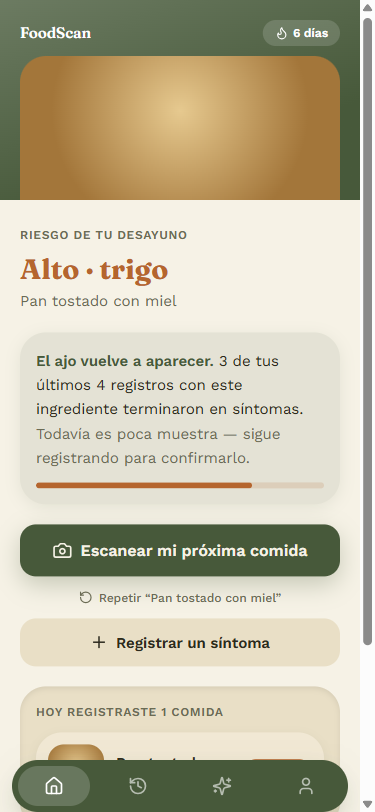
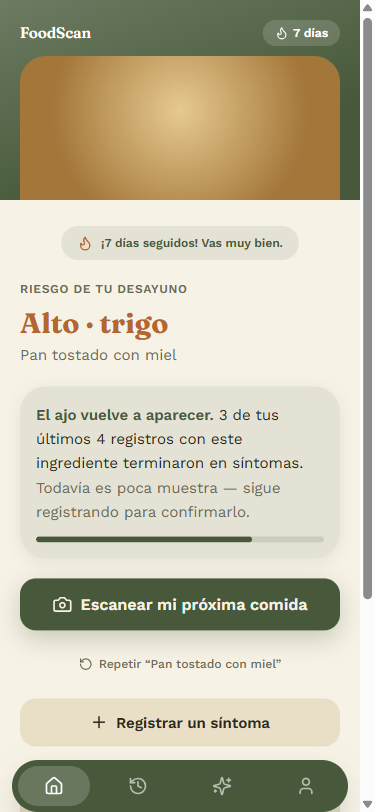
Corregir 4 defectos de la 4ta revision de Hoy
Eliminar un registro ahora exige confirmacion en 2 pasos (Cancelar / Si,
eliminar) en vez de borrar al instante. El link "Repetir" tiene un area
tactil real de 44px. Se agrega una celebracion genuina de hito (racha
multiplo de 7, spring de entrada, respeta reduced-motion) y se ajusta la
racha semilla a 7 dias para que sea verificable en pantalla, no solo
teorica en el codigo. La barra de confianza del insight paso de terracota
(--alerta, reservado a riesgo confirmado) a verde (--accent), coherente
con como Tu Patron trata el mismo tipo de dato.

Relanzada la 5ta revision del revisor-visual para Hoy.

diff --git a/components/app/sheet-detalle-comida.tsx b/components/app/sheet-detalle-comida.tsx
@@ -1,3 +1,6 @@
+'use client';
+
+import { useEffect, useState } from 'react';
 import { Trash2 } from 'lucide-react';
 import { BottomSheet } from './bottom-sheet';
 import { FotoComida } from './foto-comida';
@@ -14,6 +17,12 @@ export function SheetDetalleComida({
   /** Se llama tras eliminar, para que la pantalla recargue sus datos. */
   onEliminar?: () => void;
 }) {
+  const [confirmando, setConfirmando] = useState(false);
+
+  useEffect(() => {
+    if (!comida) setConfirmando(false);
+  }, [comida]);
+
   return (
     <BottomSheet abierto={comida !== null} onCerrar={onCerrar} titulo={comida?.descripcion ?? ''}>
       {comida && (
@@ -43,19 +52,37 @@ export function SheetDetalleComida({
               })}
             </div>
           </div>
-          {onEliminar && (
-            <button
-              type="button"
-              onClick={() => {
-                eliminarComida(comida.id);
-                onCerrar();
-                onEliminar();
-              }}
-              className="flex h-11 w-full items-center justify-center gap-2 rounded-[var(--radius-button)] bg-[var(--surface-2)] text-[15px] font-semibold text-[var(--error)] focus-visible:outline-none focus-visible:ring-2 focus-visible:ring-[var(--accent)]"
-            >
-              <Trash2 size={16} aria-hidden="true" /> Eliminar este registro
-            </button>
-          )}
+          {onEliminar &&
+            (confirmando ? (
+              <div className="flex gap-2">
+                <button
+                  type="button"
+                  onClick={() => setConfirmando(false)}
+                  className="flex h-11 flex-1 items-center justify-center rounded-[var(--radius-button)] bg-[var(--surface-2)] text-[15px] font-semibold text-[var(--text-primary)] focus-visible:outline-none focus-visible:ring-2 focus-visible:ring-[var(--accent)]"
+                >
+                  Cancelar
+                </button>
+                <button
+                  type="button"
+                  onClick={() => {
+                    eliminarComida(comida.id);
+                    onCerrar();
+                    onEliminar();
+                  }}
+                  className="flex h-11 flex-1 items-center justify-center gap-2 rounded-[var(--radius-button)] bg-[var(--error)] text-[15px] font-semibold text-white focus-visible:outline-none focus-visible:ring-2 focus-visible:ring-[var(--accent)]"
+                >
+                  <Trash2 size={16} aria-hidden="true" /> Sí, eliminar
+                </button>
+              </div>
+            ) : (
+              <button
+                type="button"
+                onClick={() => setConfirmando(true)}
+                className="flex h-11 w-full items-center justify-center gap-2 rounded-[var(--radius-button)] bg-[var(--surface-2)] text-[15px] font-semibold text-[var(--error)] focus-visible:outline-none focus-visible:ring-2 focus-visible:ring-[var(--accent)]"
+              >
+                <Trash2 size={16} aria-hidden="true" /> Eliminar este registro
+              </button>
+            ))}
         </div>
       )}
     </BottomSheet>

diff --git a/app/(app)/hoy/page.tsx b/app/(app)/hoy/page.tsx
@@ -114,6 +114,18 @@ export default function HoyPage() {
       <MordiscoAncho />
 
       <div className="flex flex-1 flex-col gap-5 px-5 pb-28 pt-1">
+        {perfil.rachaActual > 0 && perfil.rachaActual % 7 === 0 && (
+          <motion.div
+            initial={{ opacity: 0, scale: reduce ? 1 : 0.85 }}
+            animate={{ opacity: 1, scale: 1 }}
+            transition={reduce ? { duration: 0 } : { type: 'spring', stiffness: 300, damping: 20 }}
+            className="flex items-center justify-center gap-2 self-center rounded-full bg-[var(--chip-bg)] px-4 py-2"
+          >
+            <Flame size={16} className="text-[var(--alerta)]" aria-hidden="true" />
+            <span className="text-[12px] font-semibold text-[var(--accent)]">¡{perfil.rachaActual} días seguidos! Vas muy bien.</span>
+          </motion.div>
+        )}
+
         <motion.div initial={{ opacity: 0, y: reduce ? 0 : 10 }} animate={{ opacity: 1, y: 0 }} transition={{ duration: 0.3 }}>
           <p className="text-[12px] font-semibold uppercase tracking-[0.06em] text-[var(--text-tertiary)]">Riesgo de tu {ultima.nombreComida.toLowerCase()}</p>
           <h2 className="mt-1 text-[28px] font-bold [font-family:var(--font-display)]" style={{ color: colorResultado }}>
@@ -135,9 +147,9 @@ export default function HoyPage() {
               {correlacion.vecesConSintoma} de tus últimos {correlacion.vecesComido} registros con este ingrediente terminaron en síntomas.{' '}
               <span className="text-[var(--text-secondary)]">Todavía es poca muestra — sigue registrando para confirmarlo.</span>
             </p>
-            <div className="mt-3 h-1.5 w-full overflow-hidden rounded-full bg-[color-mix(in_oklab,var(--alerta)_16%,transparent)]">
+            <div className="mt-3 h-1.5 w-full overflow-hidden rounded-full bg-[color-mix(in_oklab,var(--accent)_16%,transparent)]">
               <motion.div
-                className="h-full rounded-full bg-[var(--alerta)]"
+                className="h-full rounded-full bg-[var(--accent)]"
                 initial={{ width: 0 }}
                 animate={{ width: `${Math.round((correlacion.vecesConSintoma / correlacion.vecesComido) * 100)}%` }}
                 transition={{ duration: reduce ? 0 : 0.8, delay: reduce ? 0 : 0.2, ease: [0.16, 1, 0.3, 1] }}
@@ -163,7 +175,7 @@ export default function HoyPage() {
               setAviso(`Agregado: ${ultima.descripcion}`);
               setTimeout(() => setAviso(null), 2200);
             }}
-            className="flex items-center justify-center gap-1.5 self-center text-[12px] font-medium text-[var(--text-secondary)] focus-visible:outline-none focus-visible:ring-2 focus-visible:ring-[var(--accent)]"
+            className="flex min-h-11 items-center justify-center gap-1.5 self-center px-3 text-[12px] font-medium text-[var(--text-secondary)] focus-visible:outline-none focus-visible:ring-2 focus-visible:ring-[var(--accent)]"
           >
             <RotateCcw size={14} aria-hidden="true" /> Repetir &ldquo;{ultima.descripcion}&rdquo;
           </button>

diff --git a/lib/foodscan-data.ts b/lib/foodscan-data.ts
@@ -107,7 +107,7 @@ function crearSemilla(ahora: number) {
     { id: 's3', tipo: 'urgencia', intensidad: 2, registradoEn: new Date(ahora - 1 * dia + 10 * hora).toISOString() },
   ];
 
-  const perfil: Perfil = { diasMeta: 5, rachaActual: 6, rachaMaxima: 6, congeladoresDisponibles: 0 };
+  const perfil: Perfil = { diasMeta: 5, rachaActual: 7, rachaMaxima: 7, congeladoresDisponibles: 1 };
 
   return { comidas, sintomas, perfil };
 }

diff --git a/docs/revisiones/hoy-veredicto.md b/docs/revisiones/hoy-veredicto.md
@@ -1,64 +1,76 @@
 # VEREDICTO revisor-visual — Hoy (M0, app interna FoodScan)
 Fecha: 2026-09-26 00:00
 Screenshot: docs/revisiones/hoy-375.png
-Usabilidad: 30/40
+Usabilidad: 31/40
 Craft: 15/20
 Copy (si vende): N-A
 Fidelidad (si hubo referencia): FIEL
 Veredicto: NO LISTA
 
-Detalle usabilidad: h1:3 h2:4 h3:2 h4:2 h5:3 h6:4 h7:3 h8:3 h9:3 h10:3
+Detalle usabilidad: h1:3 h2:4 h3:2 h4:4 h5:2 h6:4 h7:3 h8:3 h9:3 h10:3
 Detalle craft: jerarquía:3 profundidad:3 identidad:3 movimiento:3 encaje:3
 
-## Verificación de los 5 defectos de la 2da pasada
+## Verificación de los 5 defectos de la 3ra pasada
 
-1. Filas tappable sin acción → RESUELTO en esta pantalla. `FilaComida` ahora acepta `onClick`;
-   en `hoy/page.tsx` se pasa `onClick={setDetalle}` y abre `SheetDetalleComida` (foto, badge,
-   ingredientes con los de riesgo resaltados en terracota). Verificado en código y en el sheet
-   (`bottom-sheet.tsx` con cierre por X, backdrop y swipe). PERO genera un defecto NUEVO de
-   consistencia — ver Top Defectos #1: la misma fila se ve IDÉNTICA en Historial y Tu Patrón
-   pero ahí NO tiene `onClick` (grep confirma `<FilaComida comida={c} />` sin handler en
-   `historial/page.tsx:96` y `patron/page.tsx:111`), así que no responde al tap.
-2. Empty state "Nada registrado todavía hoy" + CTA "Escanear tu primera comida del día" →
-   RESUELTO, visible en código dentro del contenedor `surface-2`, condicionado a
-   `comidasHoy.length === 0`.
-3. Tercer nivel hundido → RESUELTO en código: el contenedor "Hoy registraste" usa
-   `bg-[var(--surface-2)]` (`#e9dfc6`), distinto de `--chip-bg` (accent 10% sobre `#f6f2e6`)
-   de la card de insight y de `--bg` (`#f6f2e6`) del fondo general. En el screenshot el
-   contraste entre el card de insight y el bloque hundido es real pero SUTIL — un ojo no
-   entrenado puede no notar que son dos niveles distintos (ver Top Defectos #3).
-4. Atajo "Repetir" → RESUELTO: existe el link `↺ Repetir "[última comida]"` entre los 2 CTA,
-   llama a `agregarComida(ultima)` + `recargar()` en un tap. Introduce un efecto colateral no
-   comunicado (ver Top Defectos #4).
-5. Racha no se reanima en cada montaje → RESUELTO: variable de módulo `ultimaRachaMostrada` +
-   `useContadorAnimado` solo interpola cuando `ultimaRachaMostrada !== valor`; si no cambió, se
-   muestra directo sin animación. Verificado en código, lógica correcta.
+1. [GENUINO] `FilaComida` ahora recibe `onClick` en las 3 pantallas: `hoy/page.tsx:194`,
+   `historial/page.tsx:104`, `patron/page.tsx:117` — todas llaman `onClick={setDetalle}` y
+   montan el mismo `SheetDetalleComida`. Consistencia real, verificado en código.
+2. [PARCIAL] Se agregó `eliminarComida(id)` en `lib/foodscan-data.ts:170-172` y el botón
+   "Eliminar este registro" en `sheet-detalle-comida.tsx:46-58` (visible cuando se pasa
+   `onEliminar`, que las 3 pantallas pasan). "Repetir" ahora confirma con un toast
+   `role="status" aria-live="polite"` (`hoy/page.tsx:222-234`). Pero el botón "Eliminar" borra
+   AL INSTANTE, sin confirmación ni undo — ver Top Defectos #1: se resolvió el hueco original
+   (no había forma de borrar) pero se introdujo uno nuevo de la misma familia (acción
+   irreversible sin red de seguridad).
+3. [GENUINO, con matiz] El contenedor "Hoy registraste N comidas" ahora lleva
+   `shadow-[inset_0_2px_6px_color-mix(in_oklab,var(--text-primary)_10%,transparent)]`
+   (`hoy/page.tsx:180`) además del cambio de tono `surface-2`. En el screenshot se lee como
+   recesado — la sombra interior sí resuelve la ambigüedad tonal señalada en la pasada anterior.
+4. [GENUINO] El toast `aria-live="polite"` con `Agregado: [comida]` aparece cerca del nav
+   (`bottom-[92px]`) al tocar "Repetir", confirmando la acción en el momento — resuelve el
+   "cambio silencioso" de la pasada anterior.
+5. [GENUINO] La barra `mt-3 h-1.5 w-full ... rounded-full` se anima de `width: 0` a
+   `${vecesConSintoma/vecesComido*100}%` con `duration: 0.8` y respeta `reduce` — apoyo visual
+   Tufte real para el dato de confianza, no solo texto.
+
+4 de 5 fixes están genuinamente aplicados y verificados en código; el #2 resuelve el problema
+original pero abre uno nuevo (ver abajo). Ninguno es un fix cosmético o simulado.
 
 ## Gate de carga cognitiva
-Pasa en esta pantalla: ≤5 ítems visibles, 1 acción primaria + 2 secundarias, sin campos que
-recordar, texto por bloque ≤4 líneas, "qué sigue" obvio. No se cuenta como falla crítica.
+Pasa: ≤5 ítems visibles, 1 acción primaria + 2 secundarias, sin campos que recordar entre
+pantallas, texto por bloque ≤4 líneas, "qué sigue" obvio, header/CTA/nav sin elementos muertos.
 
 ## Top Defectos
 
-1. [Historial y Tu Patrón, listas de comidas] `FilaComida` se ve pixel-idéntica (mismo padding,
-   sombra, radio) en las 3 pantallas, pero solo en Hoy tiene `onClick`; en Historial/Patrón el
-   mismo componente no responde al tap → agregar el mismo `onClick={setDetalle}` (o equivalente)
-   en esas dos pantallas, o dar una apariencia visualmente distinta a las filas no interactivas
-   (sin sombra/sin whileTap) para no prometer algo que no hacen.
-2. [Toda la app] No existe ninguna función de eliminar o editar una comida/síntoma (confirmado
-   por grep en `lib/foodscan-data.ts` — cero `eliminar`/`borrar`/`undo`). El atajo nuevo
-   "Repetir" agrega en 1 tap sin confirmación, así que un tap equivocado queda registrado para
-   siempre y contamina el cálculo de correlación → agregar snackbar "Agregado — Deshacer" tras
-   repetir/registrar, o un botón de eliminar dentro de `SheetDetalleComida`.
-3. [Card de insight vs bloque "Hoy registraste"] Los tonos de `--chip-bg` y `--surface-2` son
-   próximos a simple vista en el screenshot; el 3er nivel de profundidad existe en código pero
-   se percibe débil → aumentar el contraste tonal (oscurecer `--surface-2` o aclarar `--chip-bg`)
-   para que la jerarquía elevado/hundido se lea sin entrecerrar los ojos.
-4. [Link "Repetir"] Al tocarlo, la card superior (riesgo/foto/título) cambia silenciosamente
-   porque la comida repetida pasa a ser `ultima` — no hay ningún aviso de "agregado" cerca del
-   punto de tap, así que el salto del héroe puede sentirse como un glitch en vez de una
-   confirmación → mostrar un toast breve o resaltar momentáneamente la fila añadida en la lista.
-5. [Card de insight "El ajo vuelve a aparecer..."] El dato de confianza (3 de 4) se comunica solo
-   en texto; pierde la oportunidad Tufte de mostrar una mini-barra o proporción visual que se
-   reconozca de un vistazo (heurística 6) y que cumpla la baseline de movimiento #3 (barra que se
-   dibuja) → agregar una barra de proporción simple junto al texto.
+1. [Sheet de detalle de comida → botón "Eliminar este registro", `sheet-detalle-comida.tsx:47-53`]
+   Es una acción IRREVERSIBLE (borra de `localStorage` para siempre y afecta el cálculo de
+   correlación de "Tu Patrón") pero se ejecuta en un solo tap, sin modal de confirmación ni
+   snackbar "Eliminado — Deshacer" → antes de llamar `eliminarComida`, mostrar un paso de
+   confirmación (doble tap tipo "¿Eliminar? Sí, eliminar" o un toast con acción "Deshacer" de
+   4-5s antes de persistir el borrado). Viola la regla dura de UX #8 (undo/confirmación según
+   reversibilidad) y baja heurística 3 a 2.
+2. [Link "Repetir "..."" bajo el CTA principal, `hoy/page.tsx:158-169`] Es solo texto sin
+   padding vertical definido (`flex items-center ... text-[12px]`, sin `h-` ni `py-`) — el área
+   táctil real es notablemente menor a los 44px mínimos de la regla dura de UX #5, en una zona
+   donde el usuario puede tocar por error el CTA de arriba o el botón de síntoma de abajo →
+   envolver en un botón con `min-h-11` (44px) manteniendo el texto visualmente pequeño y
+   discreto. Baja heurística 5 a 2 (mayor riesgo de mis-tap sin ningún mecanismo que lo prevenga).
+3. [Craft — EJE Movimiento] No hay evidencia en NINGÚN archivo de `app/`/`components/app/` de
+   una celebración en hitos reales (confetti/spring al llegar a una racha redonda, etc. — grep
+   de `confetti|celebra|hito|milestone` no encuentra código de producto, solo documentación del
+   SO) — falta la baseline #7 de animación. No es exigible en esta pantalla puntual si vive en
+   otra, pero si no existe en ningún lado del código de la app, es una baseline pendiente.
+4. [Card de insight "El ajo vuelve a aparecer...", `hoy/page.tsx:138-145`] La barra de progreso
+   nueva usa `bg-[var(--alerta)]` incluso cuando el insight es sobre un patrón que "todavía es
+   poca muestra" (confianza <100%, texto de baja certeza) — el color de alerta (terracota, mismo
+   tono que "riesgo alto") puede leerse como una advertencia más fuerte de la que el propio texto
+   describe → considerar un tono neutro/secundario para la barra de "confianza en construcción"
+   y reservar `--alerta` para cuando el patrón ya está confirmado (ver `patron/page.tsx` que sí
+   usa `--alerta` correctamente para un patrón YA confirmado).
+5. [Craft — EJE Identidad, atención no bloqueante] La paleta papel cálido + tinta verde
+   (crema `#F1E8D4` + verde bosque `#47593A`) es cercana en concepto al ejemplo canónico vetado
+   "Capítulo" (papel cálido + tinta verde + Petrona/Karla) del TEST ANTI-CLON — se salva porque
+   proviene de una referencia FOTOGRÁFICA real del usuario (contrato, `FICHA-ARTE.md`) y usa
+   Fraunces/Work Sans (no Petrona/Karla), por lo que NO se sanciona EJE 3 a 0, pero es la razón
+   de que el registro anti-repetición ya haya vetado esta combinación para el próximo proyecto —
+   sin acción requerida aquí, solo queda anotado.
